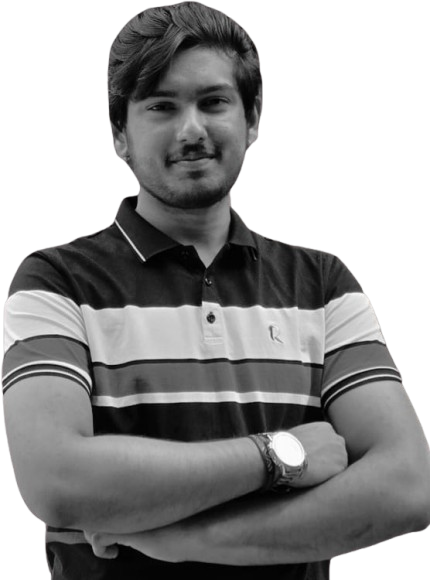
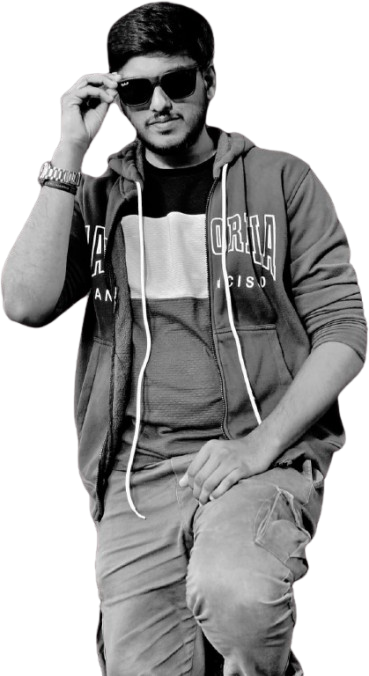
Initial commit 4

diff --git a/assets/css/style.css b/assets/css/style.css
@@ -1000,7 +1000,7 @@ body::before {
     grid-template-columns: 1fr 1fr;
     gap: 40px;
     align-items: end;
-    margin-top: -300px;
+    margin-top: -250px;
     position: relative;
     z-index: 2;
 }
@@ -1023,6 +1023,7 @@ body::before {
     object-position: center top;
     filter: grayscale(100%);
     display: block;
+    transform: rotate(3deg);
 }
 
 .about-photo .image-placeholder {
